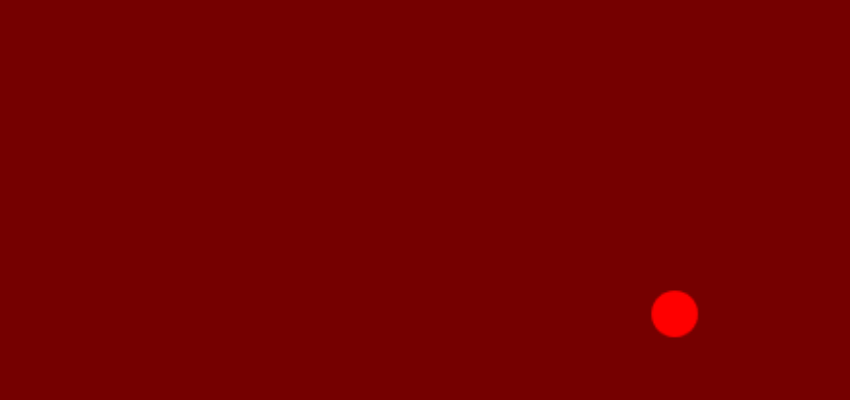
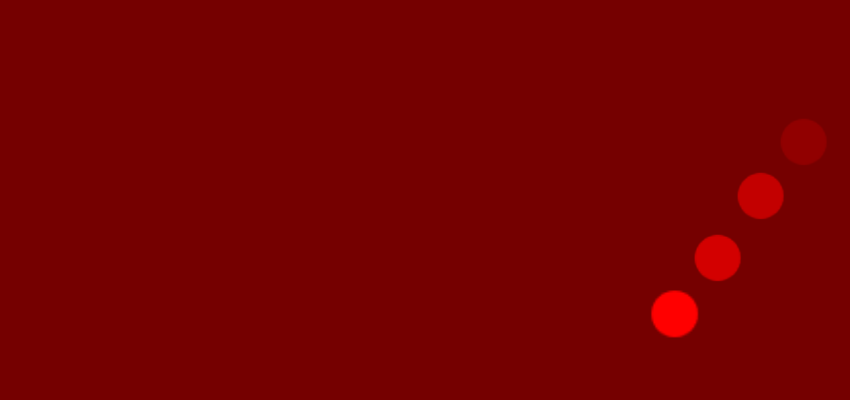
Add files via upload
Update

Changed region(s): [[0.7953, 0.57, 0.8871, 0.72], [0.8565, 0.42, 0.9482, 0.57], [0.9176, 0.3, 0.9788, 0.42]]

diff --git a/sketch.js b/sketch.js
@@ -3,28 +3,31 @@
 let player;
 let timer = 10;
 let points = 0;
-let mode = 0; // mode 0: main menu, mode 1: gameplay, mode 2: game over
 
+// mode 0 ismain menu, mode 1 is gameplay, mode 2 is game over
+let mode = 0;
+
+//the menu background
+let menubg;
+
+//sounds
 let chimepts, chimego, wallbounce;
 
 //background shift function
 let bgshift = 0;
 
-// let rectWidth = 850;
-// let rectHeight = 400;
-// let currentRectSize = rectWidth;
-
 function preload() {
   chimepts = loadSound("pts.wav");
   chimego = loadSound("chime4.wav");
   wallbounce = loadSound("bouncefx.mp3");
+  menubg = loadImage("menu.png");
 }
 
 function keyPressed() {
+  // Spacebar
   if (keyCode === 32) {
-    // Spacebar
+    // If in main menu or game over mode, start/restart the game
     if (mode === 0 || mode === 2) {
-      // If in main menu or game over mode, start/restart the game
       startGame();
     }
   }
@@ -32,17 +35,21 @@ function keyPressed() {
 
 function startGame() {
   mode = 1; // Switch to gameplay mode
-  timer = 15; // Reset timer
-  points = 0; // Reset points
-  ball.x = random(825); // Set random initial position for the ball within canvas dimensions corrected to not hug the walls
+  timer = 15; // starting timer
+  points = 0; // starting points
+
+  // Set random initial position for the ball within canvas dimensions corrected to not hug the walls
+  ball.x = random(825);
   ball.y = random(375);
-  bgshift = 0; // Reset background shift
+
+  bgshift = 0; //background shift
+
   loop(); // Start the draw loop
 }
 
 function setup() {
+  menubg = loadImage("menu.png");
   createCanvas(850, 400);
-  // fill(0);
 }
 
 function draw() {
@@ -56,32 +63,40 @@ function draw() {
 }
 
 function displayMainMenu() {
-  background(255);
+  background(menubg);
   textAlign(CENTER);
-
-  textSize(20);
+  fill(255);
+  textSize(25);
   textStyle(BOLD);
-  text("Title of Game", width / 2, 20);
-  text("DIRECTIONS:", width / 2, 50);
+  text("Catch Me if You Can", width / 2, 50);
+  text("DIRECTIONS:", width / 2, 80);
   textStyle(NORMAL);
-  text("Start With 15 Second Timer.", width / 2, 80);
-  text("Click On The Ball to Add More Time.", width / 2, 110);
-  text("If Timer Reaches Zero, Game Over.", width / 2, 140);
+  text("Start With 15 Seconds on the Clock.", width / 2, 110);
+  text("Click On The Ball to Add More Time.", width / 2, 140);
+  text("If Timer Reaches Zero, Game Over.", width / 2, 170);
 
   textSize(30);
-  text("Press SPACEBAR to start", width / 2, height / 2);
+  text("Press SPACEBAR to start", width / 2, 250);
 }
 
 /////////////////////////////////////////////////////////
 function playGame() {
-  //fill(0);
-  // rect(0, 0, currentRectSize, rectHeight);
   background(bgshift, 0, 0);
   
-  // fill(0);
-  // rect(0, 0, currentRectSize, rectHeight);
-  bgshift++;
+  //fast shift
+  //bgshift++;
+  
+  //slow shift
+  bgshift += 0.5;
+  if (ball.x > 550 || ball.x < 100) {
+    fill(0);
+    ellipse(ball.x, ball.y, 25, 25);
+  }
 
+  if (ball.y > 350 || ball.y < 75) {
+    fill(0);
+    ellipse(ball.x, ball.y, 25, 25);
+  }
   if (bgshift >= 255) {
     bgshift = 255;
   }
@@ -91,19 +106,17 @@ function playGame() {
   }
 
   drawball();
-  // move();
+
   updateBall();
   bounce();
 
   player = createVector(mouseX, mouseY);
   timer -= 1 / 60;
-  if (timer <= 0){// || currentRectSize <= 0) {
+  if (timer <= 0) {
     mode = 2; // Switch to game over mode
     chimego.play();
     //noLoop();
   }
-  // let shrinkRate = map(timer, 0, 15, 0, rectWidth * 0.8); // Reduce max shrink to 80% of width
-  // currentRectSize = Math.max(0, rectWidth - shrinkRate); // Ensure minimum size is 0
 
   let length = map(timer, 0, 15, 0, 200);
   stroke(255);
@@ -118,10 +131,10 @@ function playGame() {
 }
 /////////////////////////////////////////////////////////////////
 function displayGameOver() {
-  background(255);
+  background(0);
   textAlign(CENTER);
   textSize(30); // Set the text size
-  fill(0);
+  fill(255);
   text("Game Over!", width / 2, height / 2 - 40);
   textSize(20); // Set the text size
   text("Press SPACEBAR to restart", width / 2, height / 2);
@@ -136,7 +149,7 @@ function bounce() {}
 function drawball() {}
 
 function mouseClicked() {
-  const clickTolerance = 25; // Radius for click detection (in pixels)
+  const clickTolerance = 25; // click detection in pixels
 
   let distance = sqrt(
     (mouseX - ball.x) * (mouseX - ball.x) +
@@ -147,8 +160,6 @@ function mouseClicked() {
     points++;
     chimepts.play();
     timer += 1;
-    bgshift -= 100;
-
-    // currentRectSize += 5; // Increase rectangle size based on reward size
+    bgshift -= 50;
   }
 }

diff --git a/drawball.js b/drawball.js
@@ -4,20 +4,10 @@ let ball = {
   y: 0,
   xspeed: 3,
   yspeed: -2,
-  radius: 12, // Ball radius assuming 24x24 circle
-  
+  radius: 12, // radius of ball; 24x24 pixels
 };
 
 function updateBall() {
-  if (ball.x > 550 || ball.x < 100 ) {
-    fill(0);
-    ellipse(ball.x, ball.y, 25, 25)
-  }
-
-if (ball.y > 350 || ball.y < 75) {
-  fill(0);
-  ellipse(ball.x, ball.y, 25, 25)
-}
   // Check for collisions before updating position
   if (
     ball.x + ball.xspeed > width - ball.radius ||
@@ -38,36 +28,8 @@ if (ball.y > 350 || ball.y < 75) {
   } else {
     ball.y += ball.yspeed; // Update Y position if no collision
   }
-  if (ball.x > 550 || ball.x < 100 ) {
-    fill(0);
-    ellipse(ball.x, ball.y, 25, 25)
-  }
-
-if (ball.y > 350 || ball.y < 75) {
-  fill(0);
-  ellipse(ball.x, ball.y, 25, 25)
-}
 }
 
-// function updateBall() {
-//   ball.x += ball.xspeed;
-//   ball.y += ball.yspeed;
-
-//   //attempt 1 to fix collision issues
-//   ball.x = Math.round(ball.x); // Round ball.x position
-//   ball.y = Math.round(ball.y); // Round ball.y position
-
-//   // Check for collisions and play sound
-//   if (ball.x > width - ball.radius || ball.x < ball.radius) {
-//     ball.xspeed *= -1;
-//     wallbounce.play();
-//   }
-
-//   if (ball.y > height - ball.radius || ball.y < ball.radius) {
-//     ball.yspeed *= -1;
-//     wallbounce.play();
-//   }
-// }
 function drawball() {
   noStroke();
   fill(255, 0, 0);
